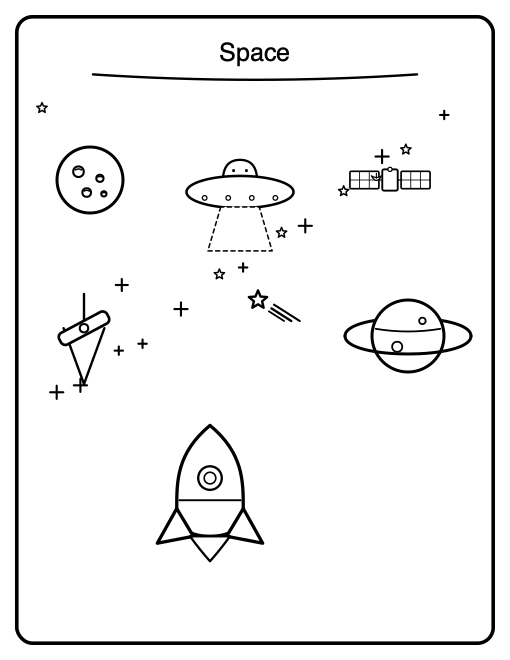
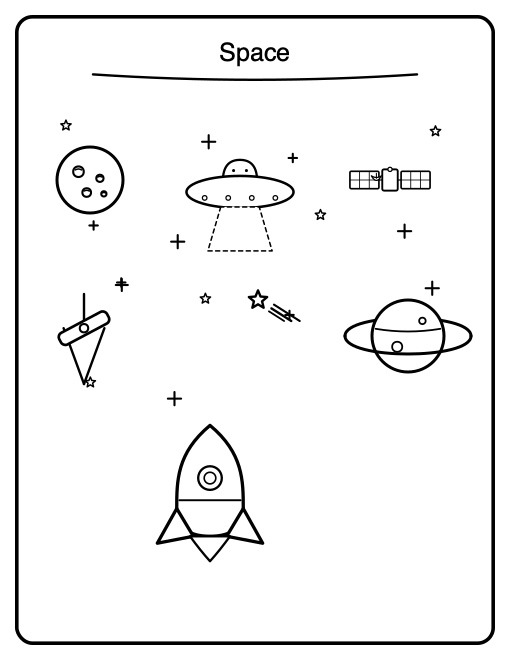
Vision-review round 2: giraffe head seated on neck (was floating), whale spout as fountain arcs + droplets (was hair-strand lines), jittered-grid star field (no diagonal streak), scene-kit sky_fill option, zoo/street composition fixes

diff --git a/lib/charlib.py b/lib/charlib.py
@@ -2643,8 +2643,8 @@ def giraffe(cx, ground_y, w=200, sw=4.5):
     out.append(P(f"M {x0 + 0.54 * w} {g - 0.66 * w} L {x0 + 0.74 * w} {g - 1.36 * w} "
                  f"L {x0 + 0.88 * w} {g - 1.34 * w} L {x0 + 0.66 * w} {g - 0.60 * w} Z", sw, "white"))
     # head muzzle at the neck top
-    hx, hy = x0 + 0.86 * w, g - 1.42 * w
-    out.append(E(hx, hy, 0.11 * w, 0.075 * w, sw, "white"))
+    hx, hy = x0 + 0.86 * w, g - 1.385 * w
+    out.append(E(hx, hy, 0.115 * w, 0.085 * w, sw, "white"))
     # ossicones (two knobbed stalks)
     for dx in (-0.02, 0.05):
         out.append(LINE(hx + dx * w, hy - 0.05 * w, hx + dx * w + 0.01 * w, hy - 0.11 * w, 3.5))
@@ -2837,11 +2837,14 @@ def whale_spout(cx, ground_y, w=240, sw=5):
     # eye + smile
     out.append(DOT(x0 + 0.82 * w, g - 0.30 * w, 3.5))
     out.append(P(f"M {x0 + 0.82 * w} {g - 0.20 * w} Q {x0 + 0.90 * w} {g - 0.16 * w} {x0 + 0.94 * w} {g - 0.22 * w}", 3))
-    # spout spray from the blowhole
-    bx = x0 + 0.66 * w
-    out.append(P(f"M {bx} {g - 0.44 * w} Q {bx - 0.06 * w} {g - 0.64 * w} {bx - 0.02 * w} {g - 0.74 * w}", 3))
-    out.append(P(f"M {bx} {g - 0.44 * w} Q {bx + 0.02 * w} {g - 0.66 * w} {bx + 0.02 * w} {g - 0.76 * w}", 3))
-    out.append(P(f"M {bx} {g - 0.44 * w} Q {bx + 0.08 * w} {g - 0.64 * w} {bx + 0.10 * w} {g - 0.72 * w}", 3))
+    # spout: fountain of outward-curving arcs with droplet dots
+    bx, by = x0 + 0.66 * w, g - 0.42 * w
+    for dx, tip in ((-1, -0.11), (0, 0.0), (1, 0.11)):
+        out.append(P(f"M {_f(bx)} {_f(by)} Q {_f(bx + dx * 0.10 * w)} {_f(by - 0.58 * w)} "
+                     f"{_f(bx + tip * w)} {_f(by - 0.68 * w)}", 3.5))
+        out.append(C(bx + tip * w, by - 0.72 * w, 3.5, 2.5, "white"))
+    out.append(C(bx - 0.055 * w, by - 0.50 * w, 2.5, 2, "white"))
+    out.append(C(bx + 0.065 * w, by - 0.53 * w, 2.5, 2, "white"))
     return "".join(out)
 
 
@@ -3335,14 +3338,19 @@ def train_car(cx, ground_y, w=180, kind="box", sw=5):
 
 # ---------------------------------------------------------------- space pack
 def star_field(x0, y0, x1, y1, n=14, sw=2.5):
-    """Deterministic star/sparkle scatter (golden-ratio hops — never random).
-    Sky decoration; tagged data-sky so the validator ignores it for span."""
+    """Deterministic star/sparkle scatter on a jittered grid — uniform
+    coverage without the diagonal streak a single golden-ratio sequence
+    produces. Sky decoration; tagged data-sky for the span check."""
     out = []
+    cols = max(2, int(round(math.sqrt(n * (x1 - x0) / max(1, y1 - y0)))))
+    rows = (n + cols - 1) // cols
+    cw, ch = (x1 - x0) / cols, (y1 - y0) / rows
     for i in range(n):
-        fx = (i * 0.61803398875) % 1.0
-        fy = (i * 0.37777777) % 1.0
-        px = x0 + (x1 - x0) * fx
-        py = y0 + (y1 - y0) * fy
+        r_, c_ = divmod(i, cols)
+        jx = ((i * 0.61803398875) % 1.0 - 0.5) * cw * 0.55
+        jy = ((i * 0.37777777) % 1.0 - 0.5) * ch * 0.55
+        px = x0 + cw * (c_ + 0.5) + jx
+        py = y0 + ch * (r_ + 0.5) + jy
         if i % 3 == 0:
             out.append(star(px, py, 9 + (i % 3) * 3, sw, "white")
                        .replace("<polygon ", '<polygon data-sky="1" ', 1))

diff --git a/lib/scenes.py b/lib/scenes.py
@@ -26,10 +26,13 @@ BEACH_GROUND = 900          # beach shoreline (sand ground)
 SPACE_GROUND = 930          # lunar surface line
 
 
-def scene_meadow(*, sun_at=(130, 225), hills=True, flowers=5):
-    """Sunny meadow. Ground: SCENE_GROUND. Sky lane stays clear above y=300
-    on the right for a title; flowers dot the foreground band."""
+def scene_meadow(*, sun_at=(130, 225), hills=True, flowers=5, sky_fill=True):
+    """Sunny meadow. Ground: SCENE_GROUND. Mid-sky clouds fill the band
+    between title and scene (opt out with sky_fill=False); flowers dot the
+    foreground band."""
     out = [sun(*sun_at, r=42), cloud(660, 235, 28), sparkle(560, 250, 8)]
+    if sky_fill:
+        out += [cloud(230, 330, 20), sparkle(700, 330, 7)]
     if hills:
         out.append(hill(300, SCENE_GROUND, w=470, h=95))
         out.append(hill(645, SCENE_GROUND, w=320, h=70))
@@ -47,12 +50,14 @@ def scene_meadow(*, sun_at=(130, 225), hills=True, flowers=5):
     return "".join(out)
 
 
-def scene_street(*, lampposts=True):
+def scene_street(*, lampposts=True, sky_fill=True):
     """City street. Vehicle/figure ground: STREET_GROUND (road near edge)."""
     street_y = SCENE_GROUND - 120
     out = [sun(120, 225, r=40), cloud(650, 235, 26),
            skyline(street_y - 8, 60, W - 60), road(50, W - 50, street_y),
            LINE(50, street_y + ROAD_H, W - 50, street_y + ROAD_H, 4)]
+    if sky_fill:
+        out += [cloud(300, 320, 22), sparkle(500, 300, 7)]
     if lampposts:
         out.append(G(115, street_y + ROAD_H, lamppost(0, 0, h=250), 0.9))
         out.append(G(W - 115, street_y + ROAD_H, lamppost(0, 0, h=250), 0.9))
@@ -98,10 +103,12 @@ def scene_space(*, planet=True, ufo_target=None):
     return "".join(out)
 
 
-def scene_farm(*, pond_too=True):
+def scene_farm(*, pond_too=True, sky_fill=True):
     """Farmyard: barn + ranch fence + grass. Ground: SCENE_GROUND."""
     out = [sun(130, 225, r=40), cloud(620, 235, 26),
            hill(560, SCENE_GROUND, w=460, h=70)]
+    if sky_fill:
+        out += [sparkle(300, 330, 7), cloud(450, 320, 20)]
     out.append(G(200, SCENE_GROUND, barn(0, 0, w=230), 1.0))
     out.append(fence_ranch(360, 620, SCENE_GROUND, posts=5))
     if pond_too:
